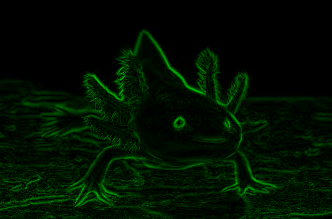
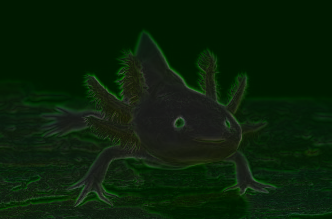
Graphic effects: layers manager

diff --git a/go/graphic-effects/main.go b/go/graphic-effects/main.go
@@ -30,31 +30,25 @@ func main() {
 	xerr(err)
 	source, _, err := image.Decode(reader)
 	xerr(err)
-	sourceBounds := source.Bounds()
-	fmt.Printf("Image: [%d-%d]x[%d-%d]\n", sourceBounds.Min.X, sourceBounds.Max.X, sourceBounds.Min.Y, sourceBounds.Max.Y)
-	target := image.NewRGBA(image.Rect(sourceBounds.Min.X, sourceBounds.Min.Y, sourceBounds.Max.X-8, sourceBounds.Max.Y-8))
+
+	l := New(source)
+	fmt.Printf("Image: %dx%d\n", l.R.Width(), l.R.Height())
+	target := image.NewRGBA(image.Rect(0, 0, l.R.Width()-8, l.R.Height()-8))
 	w := [8]float64{-0.0625, -0.0625, -0.125, -0.25, 0.25, 0.125, 0.0625, 0.0625}
-	for y := sourceBounds.Min.Y; y < sourceBounds.Max.Y-8; y++ {
-		for x := sourceBounds.Min.X; x < sourceBounds.Max.X-8; x++ {
+	for y := 0; y < l.R.Height()-8; y++ {
+		for x := 0; x < l.R.Width()-8; x++ {
 			sx := float64(0)
 			sy := float64(0)
 			for t := 0; t < 8; t++ {
-				r, g, b, _ := source.At(x+t, y+3).RGBA()
-				cy, _, _ := color.RGBToYCbCr(uint8(r>>8), uint8(g>>8), uint8(b>>8))
-				sx += float64(cy) * w[t]
-				r, g, b, _ = source.At(x+3, y+t).RGBA()
-				cy, _, _ = color.RGBToYCbCr(uint8(r>>8), uint8(g>>8), uint8(b>>8))
-				sy += float64(cy) * w[t]
+				sx += l.Y.At(x+t, y+3) * w[t]
+				sy += l.Y.At(x+3, y+t) * w[t]
 			}
 			s := math.Hypot(sx, sy)
-			s *= 2
-			if s > 255 {
-				s = 255
-			}
+			s = .1 + .9*s
 			target.Set(x, y, color.RGBA{
-				R: 0,
-				G: uint8(s),
-				B: 0,
+				R: uint8(s * l.R.At(x+3, y+3) * 256),
+				G: uint8(s * 256),
+				B: uint8(s * l.B.At(x+3, y+3) * 256),
 				A: 0xff,
 			})
 		}

diff --git a/go/graphic-effects/layer.go b/go/graphic-effects/layer.go
@@ -1,0 +1,75 @@
+package main
+
+import (
+	"image"
+	"image/color"
+)
+
+// very naive impleventation!
+// no bound checking
+// no integrity checking
+
+type Layer [][]float64
+
+func (l Layer) Width() int {
+	return len(l[0])
+}
+
+func (l Layer) Height() int {
+	return len(l)
+}
+
+func (l Layer) At(x, y int) float64 {
+	return l[y][x]
+}
+
+type Layers struct {
+	R  Layer
+	G  Layer
+	B  Layer
+	Y  Layer
+	Cb Layer
+	Cr Layer
+}
+
+func New(s image.Image) Layers {
+	bn := s.Bounds()
+	x0 := bn.Min.X
+	x1 := bn.Max.X
+	y0 := bn.Min.Y
+	y1 := bn.Max.Y
+	xm := x1 - x0
+	ym := y1 - y0
+	vr := make([][]float64, ym)
+	vg := make([][]float64, ym)
+	vb := make([][]float64, ym)
+	cy := make([][]float64, ym)
+	cb := make([][]float64, ym)
+	cr := make([][]float64, ym)
+	for y := 0; y < ym; y++ {
+		vr[y] = make([]float64, xm)
+		vg[y] = make([]float64, xm)
+		vb[y] = make([]float64, xm)
+		cy[y] = make([]float64, xm)
+		cb[y] = make([]float64, xm)
+		cr[y] = make([]float64, xm)
+		for x := 0; x < xm; x++ {
+			r, g, b, _ := s.At(x, y).RGBA() // [0..0xffff]
+			vr[y][x] = float64(r) / 65536
+			vg[y][x] = float64(g) / 65536
+			vb[y][x] = float64(b) / 65536
+			xcy, xcb, xcr := color.RGBToYCbCr(uint8(r>>8), uint8(g>>8), uint8(b>>8))
+			cy[y][x] = float64(xcy) / 256
+			cb[y][x] = float64(xcb) / 256
+			cr[y][x] = float64(xcr) / 256
+		}
+	}
+	return Layers{
+		R:  vr,
+		G:  vg,
+		B:  vb,
+		Y:  cy,
+		Cb: cb,
+		Cr: cr,
+	}
+}

diff --git a/go/graphic-effects/README.md b/go/graphic-effects/README.md
@@ -1,7 +1,7 @@
 # graphic-effects
 
 ```
-go run main.go example.jpg
+go run . example.jpg
 ```
 
 ## Source
